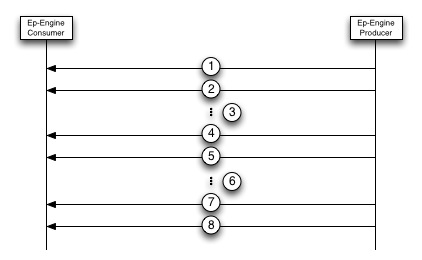
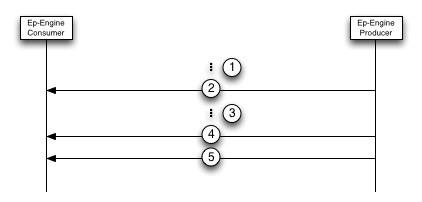
Update upr session document to reflect protocol changes

Changed region(s): [[0.0308, 0.0594, 0.9858, 0.9505]]

diff --git a/upr-session.md b/upr-session.md
@@ -41,25 +41,19 @@ Once a stream is started the Application will begin receiving data. The figure b
 
 ![Figure 3](images/upr_session_3.jpg)
 
-(1) The first data message and application will receive is a Stream Start message. The only significance of this message is to tell the Application that the data will begin being sent to the Application.
+(1) Once a stream has been started the first messages received by the Application will be a series of Mutation, Deletion, and Expiration messages. These messages should be considered part of the first snapshot that is sent to the Application.
 
-(2) The next message that will be received is a Start Snapshot message which will indicate that the starting of a snapshot.
+(2) Once all of the items from the first snapshot have been sent the Producer will send a Snapshot Marker message to tell the Application that the producer has reached the end of a snapshot. Any items received after a snapshot marker should be part of the next snapshot.
 
-(3) After a Start Snapshot message the Application will receive a series of Mutation, Deletion, and Expiration messages. These messages contain data about operations that have taken place on certain keys
+(3) After the Snapshot Marker is received if the Producer has more items to send the Application will receive begin to receive the next snapshot.
 
 (4) When the Producer gets to the end of a snaphot it sends a Snapshot End message to let the Application know that the snapshot is finished.
 
-(5) If the Producer has more snapshots to send to the Application then the Producer will send a Snapshot Start message to let the client know it will be receiving another snapshot. 
-
-(6) The Application will then receive all of the Mutation, Deletion, and Expiration messages in that snapshot.
-
-(7) When the snapshot is finished the Producer will send a Snapshot End message.
-
-(8) At some point the VBucket stream may then be finished and the Application will receive a Stream End message to signify the stream is finished. A stream may end for different reasons so it is important to check the status code in the Stream End message.
+(5) At some point the VBucket stream may then be finished and the Application will receive a Stream End message to signify the stream is finished. A stream may end for different reasons so it is important to check the status code in the Stream End message.
 
 #####Closing a Stream
 
-The Producer will close a stream whenever the Application responds with a NACK to a message sent by the Producer. If a message is sent to the Application for which the Application has no registered stream then this message should always be NACK'ed. As a result when closing a stream the Application can simply deregister the stream on the Application side. If the connection is still up then the next message sent by the Producer for that stream will be NACK'ed automatically and the Producer will then remove the stream from its side.
+The Producer will close a stream whenever the Application responds with a NACK to a message sent by the Producer. If a message is sent to the Application for which the Application has no registered stream then this message should always be NACK'ed.
 
 #####Closing a Connection
 
